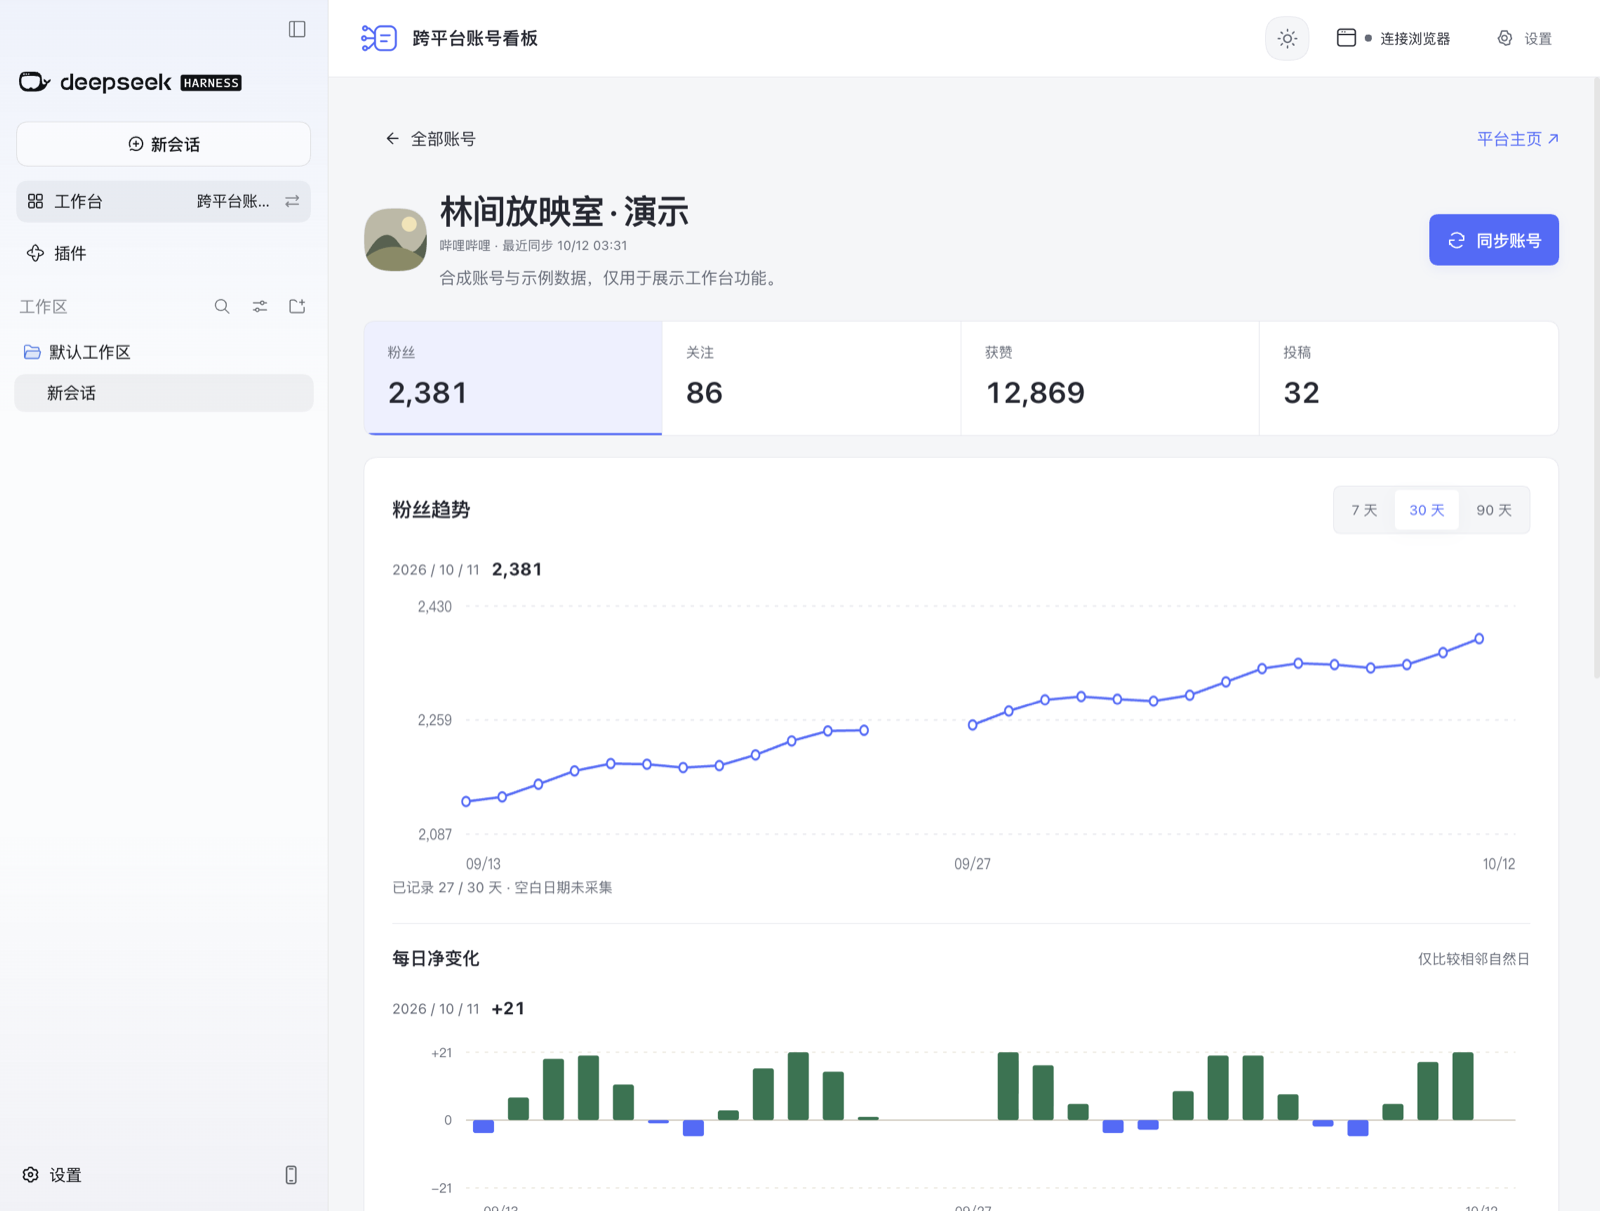
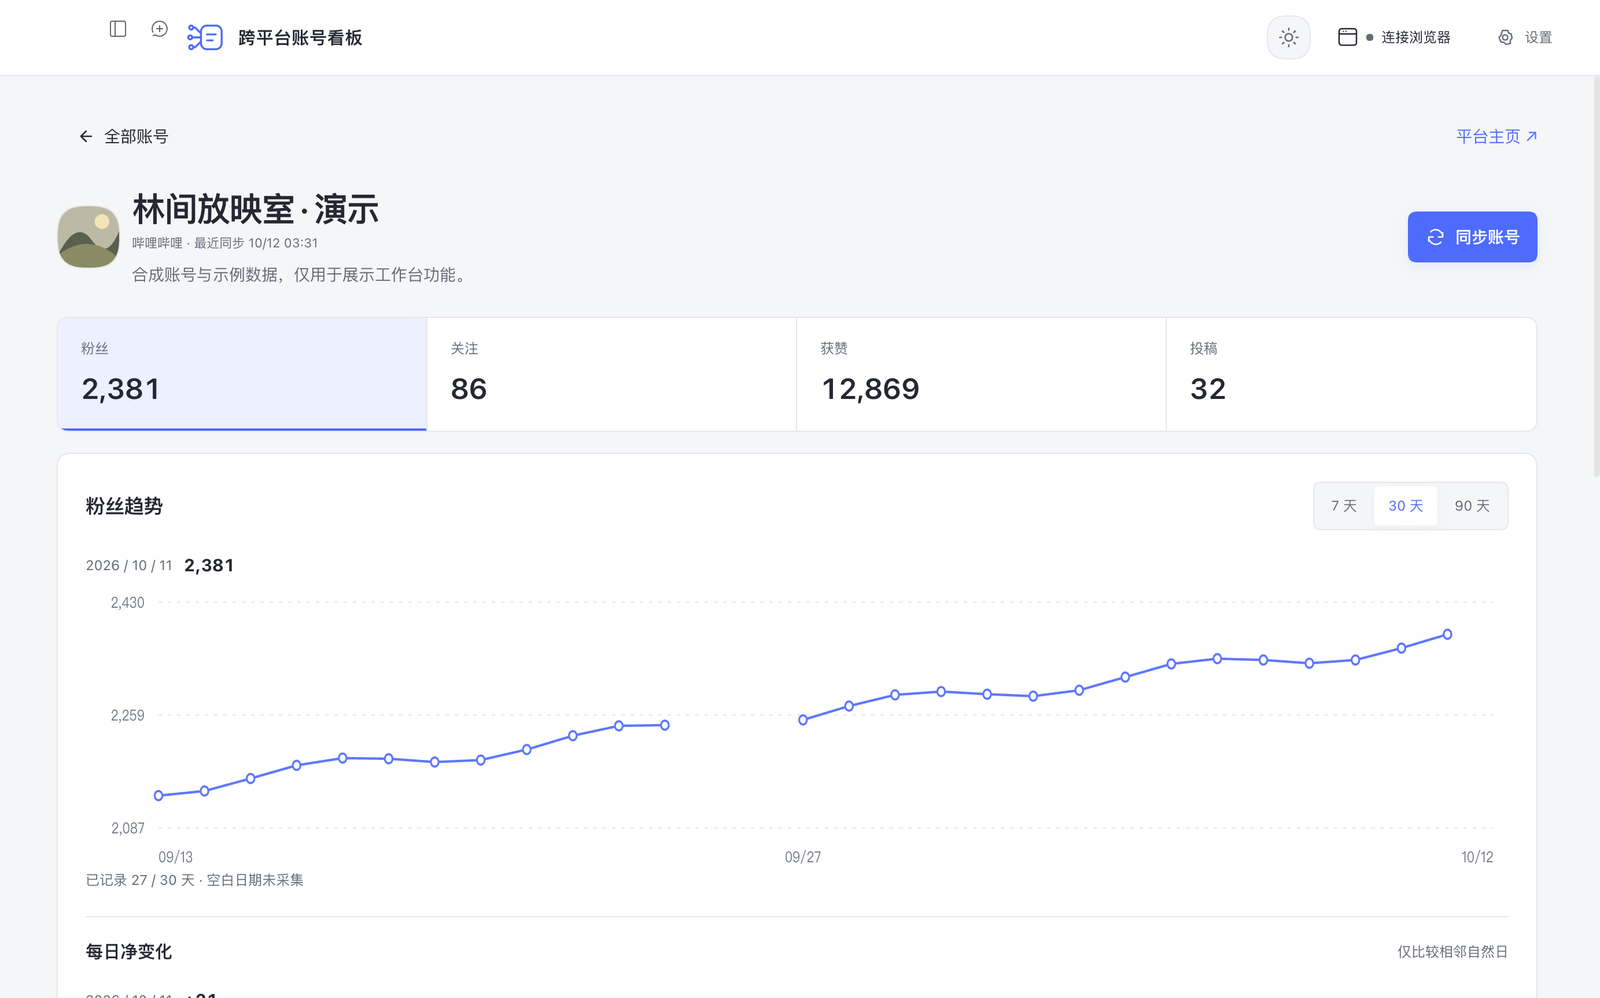
Record native Desktop validation for v0.6.2

diff --git a/docs/validation/2026-10-12-desktop-0.6.2.md b/docs/validation/2026-10-12-desktop-0.6.2.md
@@ -1,0 +1,43 @@
+# DSH Desktop 0.6.2 本机验收记录
+
+验收日期：2026-10-12。记录实际测试范围，不代表市场审核或全平台兼容结论。
+
+## 安装来源
+
+- 工作台：`dsh-workbench-personal-social-local@0.6.2`；源码：`177b655`。
+- [Release v0.6.2](https://github.com/beianbai/cross-platform-account-dashboard/releases/tag/v0.6.2)。
+- [实际下载的安装包](https://github.com/beianbai/cross-platform-account-dashboard/releases/download/v0.6.2/cross-platform-account-dashboard.tgz)。
[1 lines of base64/hex data omitted]
+- 从公开 Release 下载，校验与发布前一致；通过 Desktop 随附的 `dsh plugin --profile web add` 安装，禁用安装脚本。安装使用既有环境对应的 pnpm 10.34.5。
+- 环境：DSH Desktop **0.11.1 / macOS arm64**。安装后退出并重启 Desktop；已安装列表实际显示 **v0.6.2**，侧栏切换器可进入工作台。
+
+## 本轮检查
+
+| 检查 | 结果 |
+| --- | --- |
+| 自动测试、构建、包检查 | 198 项测试通过；构建及工作台检查通过。新增测试真实生成并解包 tarball，执行客户端注册检查，并调用解包后服务的连接器下载路由。 |
+| 官方安装契约 | 源码归档和实际 Release 包均通过官方 `inspectPackage`；入口、patch、仓库身份、版本、体积已核对。 |
+| 分发范围 | 安装包没有 `lib/standalone.js`；保留 DSH 客户端、服务端、浏览器连接器与独立版构建源码。已安装客户端与本地构建逐字节一致。 |
+| 原生打开与导航 | 重启后打开合成账号总览，进入哔哩哔哩详情和趋势，打开工作台主页的已安装列表，再经侧栏切换器返回业务界面。 |
+| 界面 | 1383 × 863 CSS px 窗口没有整页横向溢出；检查浅色、深色、跟随系统三态切换。 |
+| 时区与保存 | 实际点击时区下拉，出现北京、香港、台北、东京、首尔等选项；选择并保存显示“计划已保存”。 |
+| 成功提示 | 修改演示环境采集通路后出现“连接偏好已保存”，4.6 秒后自动消失；表单内“计划已保存”仍保留。 |
+| 原生连接器下载 | 从运行中的 Desktop 访问工作台下载端点，返回 HTTP 200、application/zip，71,064 字节。 |
+| 独立运行 | 实际执行 `npm start`，自动构建后成功启动；页面、独立界面脚本和经过认证的连接器下载均返回 HTTP 200。使用单独测试数据目录。 |
+| 原数据保护 | 截图及界面操作使用隔离的合成账号；结束后恢复原账号和浏览器授权目录，全部原文件的 SHA-256 与测试前一致。临时调试端口已关闭，Desktop 恢复正常启动。 |
+
+## 本轮实拍
+
+以下截图来自实际安装的 v0.6.2 在 DSH Desktop 内的界面，使用合成账号和自制头像。只等比缩小到宽 1600 px，没有改写界面或数据来伪装真实采集。
+
+![Desktop 0.6.2 账号总览](../../assets/market-overview.png)
+
+![Desktop 0.6.2 哔哩哔哩详情](../../assets/market-detail.png)
+
+## 范围与未验证项
+
+- 本轮改变分发清单、版本及文档，没有改变业务源码、数据格式或会话接口。此前完整安装、会话及卸载检查见 [0.6.1 记录](2026-10-12-desktop-0.6.1.md)；这些历史结果不冒充本轮重测结果。
+- 0.6.2 本轮没有重新执行卸载、模型会话请求、四个平台真实账号采集或跨天定时任务；Windows、Linux 和其他 Desktop 版本未验证。
+- 本机旧开发身份迁移造成的两个同名已安装条目仍存在；它们均显示 v0.6.2。未修改用户会话绑定或清理宿主记录。
+- 包含独立版源代码及构建方式不等于提供预编译独立版安装包；独立运行应从源码按 README 安装依赖并启动。
+- 代码、自制素材与演示截图沿用 MIT 授权。账号、作品、日记录和连接授权保存在本机；卸载数据保留策略未改变。本轮没有向平台发布内容或上传真实账号数据。
